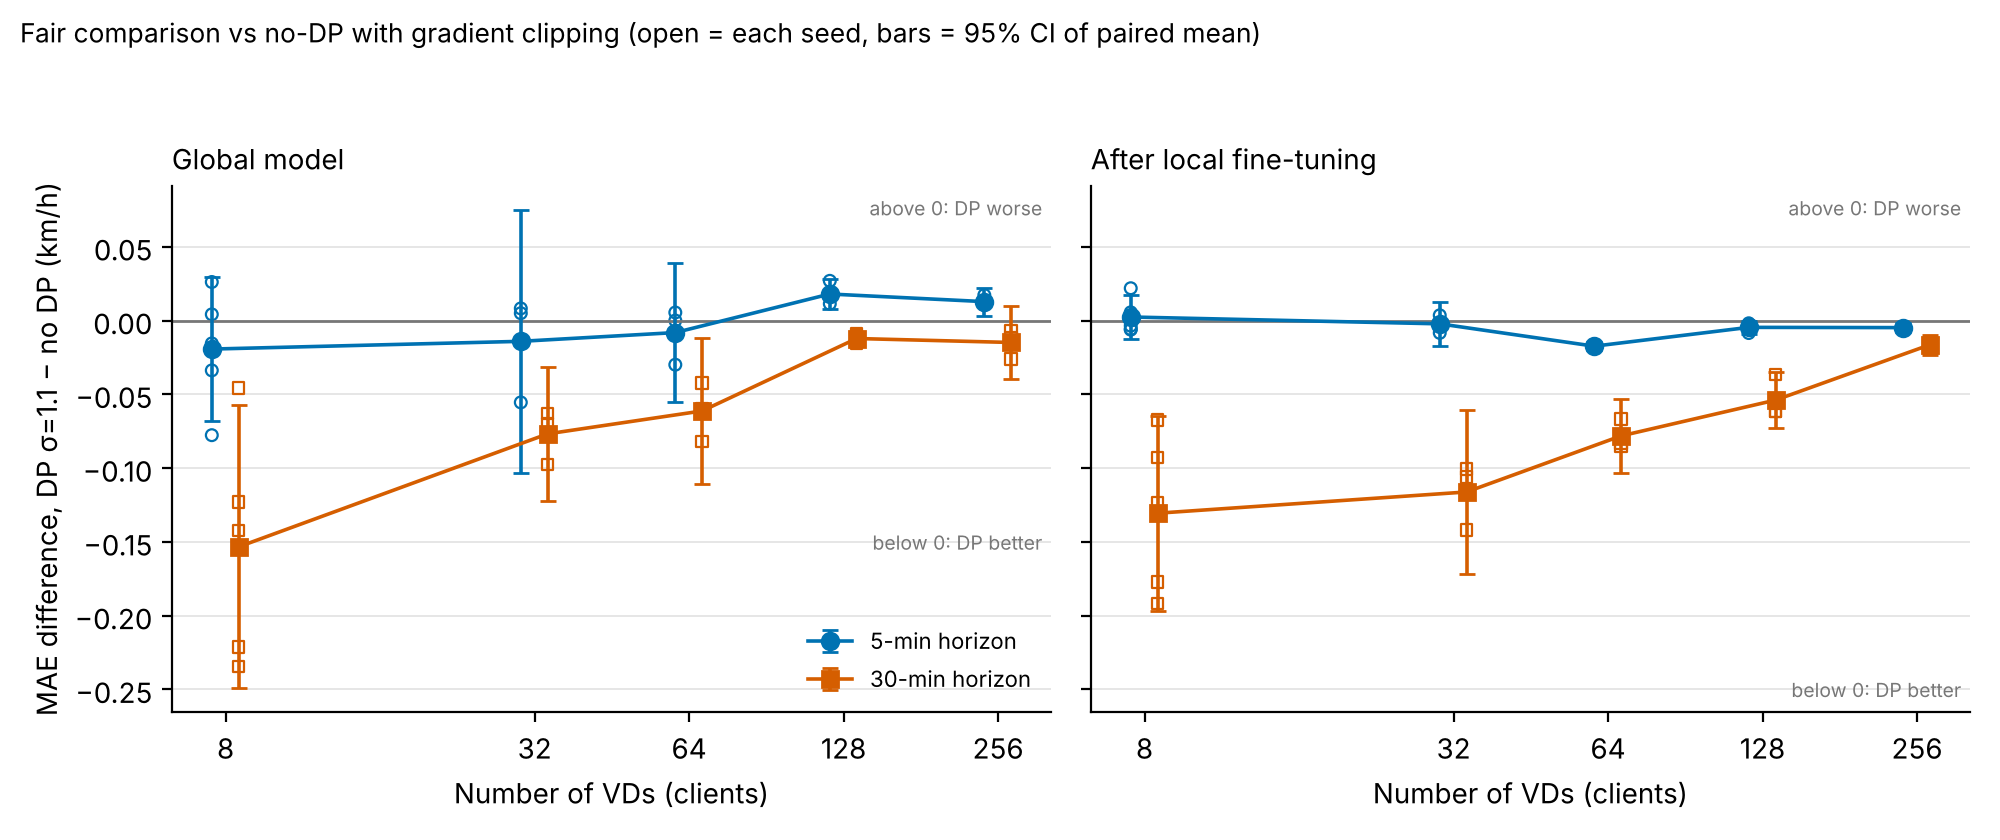
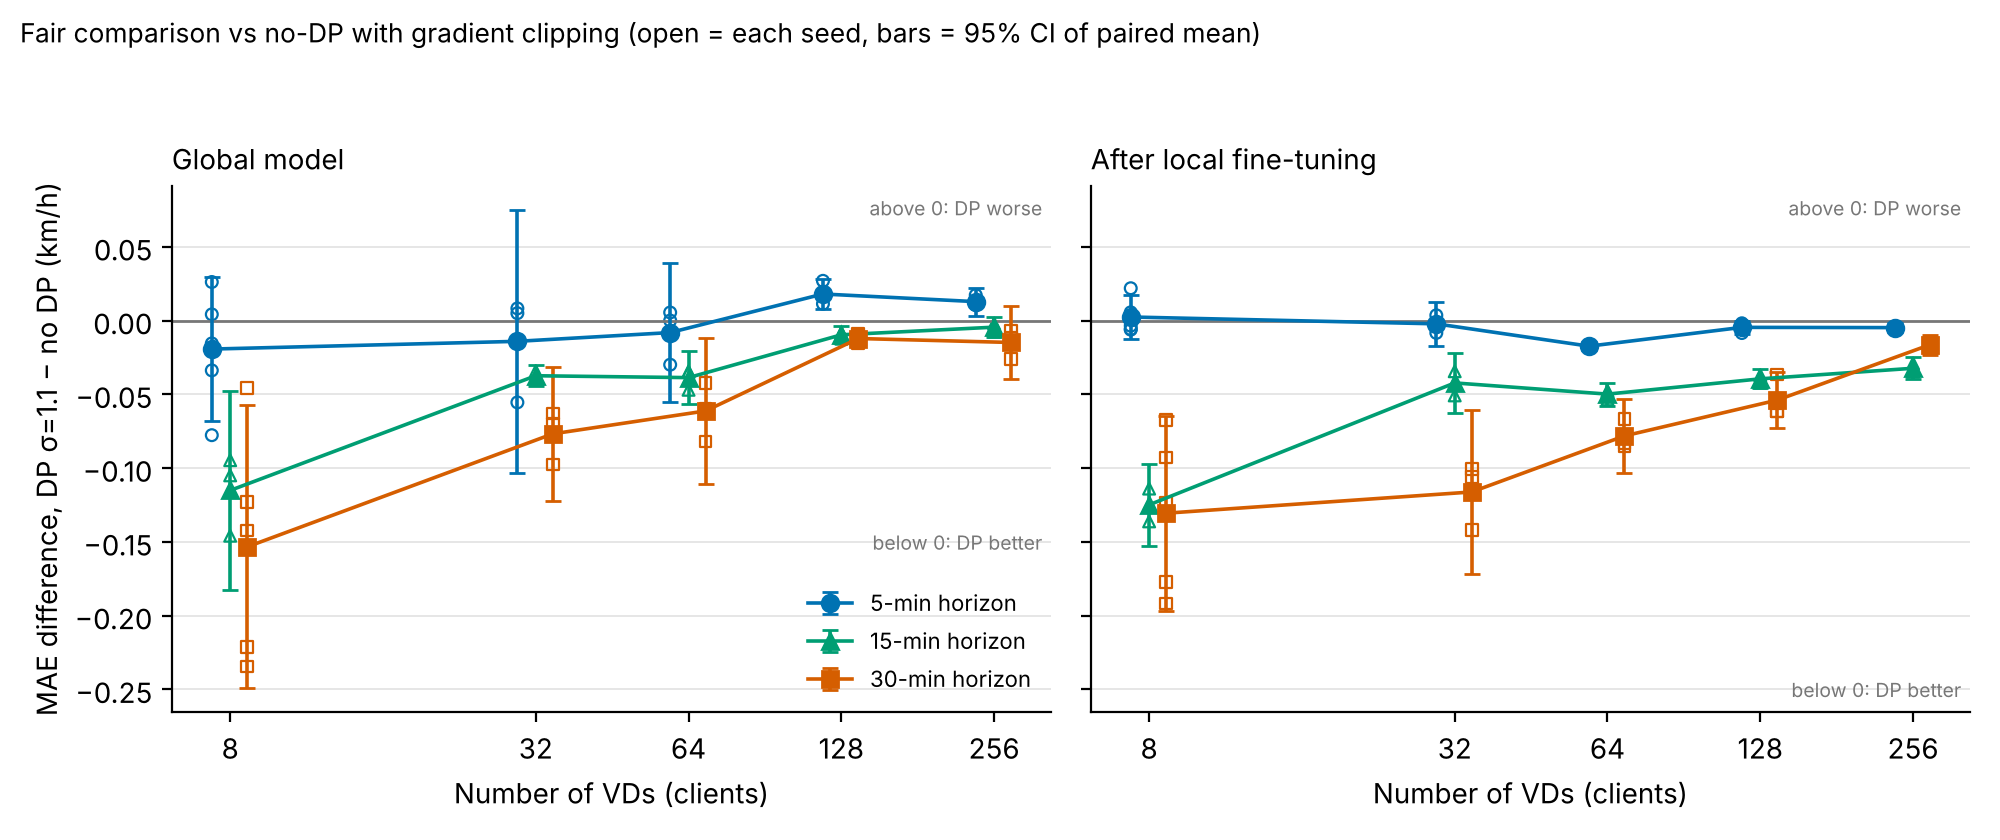
README/figure: 15-min fair comparison for all VD counts
Claude-Session: https://claude.ai/code/session_01EJ1mjjmKwMNR6cY38Rxgw7

diff --git a/scripts/plot_dp_vs_nodp.py b/scripts/plot_dp_vs_nodp.py
@@ -42,11 +42,19 @@ PAIRS = {
     (256, 5): [(1, ("d256_nodpclip", "nodp_seed1"), ("d256", "dp_sigma1.1")),
                (2, ("d256_nodpclip", "nodp_seed2"), ("d256s", "dp_sigma1.1_seed2")),
                (3, ("d256_s3more", "nodp"), ("d256s", "dp_sigma1.1_seed3"))],
+    (8, 15): _within("d8_h3_fair", (1, 2, 3)),
+    (32, 15): _within("d32_h3_fair", (1, 2, 3)),
+    (64, 15): _within("d64_h3_fair", (1, 2, 3)),
+    (128, 15): _within("d128_h3_fair", (1, 2, 3)),
+    (256, 15): [(1, ("d256_h3_nodpclip", "nodp"), ("d256_h3", "dp_sigma1.1")),
+                (2, ("d256_h3_s2", "nodp"), ("d256_h3_s2", "dp_sigma1.1")),
+                (3, ("d256_h3_s3", "nodp"), ("d256_h3_s3", "dp_sigma1.1"))],
     (256, 30): [(1, ("d256_h6_nodpclip", "nodp_seed1"), ("d256_h6", "dp_sigma1.1")),
                 (2, ("d256_h6_nodpclip", "nodp_seed2"), ("d256_h6s2", "dp_sigma1.1")),
                 (3, ("d256_h6_s3", "nodp"), ("d256_h6_s3", "dp_sigma1.1"))],
 }
-STYLE = {5: ("#0072B2", "o", "5-min horizon"), 30: ("#D55E00", "s", "30-min horizon")}  # Okabe-Ito
+STYLE = {5: ("#0072B2", "o", "5-min horizon"), 15: ("#009E73", "^", "15-min horizon"),
+         30: ("#D55E00", "s", "30-min horizon")}  # Okabe-Ito
 
 
 def _table(root: Path, batch: str) -> dict:
@@ -90,7 +98,7 @@ def plot(root: Path, out: Path) -> dict:
             keys = sorted(k for k in data if k[1] == h)
             if not keys:
                 continue
-            shift = 0.94 if h == 5 else 1.06  # 只為避免重疊（對數軸上的小位移）
+            shift = {5: 0.92, 15: 1.0, 30: 1.08}[h]  # 只為避免重疊（對數軸上的小位移）
             xs = [k[0] * shift for k in keys]
             cis = [_ci(data[k]) for k in keys]
             means = [c[0] for c in cis]

diff --git a/README.md b/README.md
@@ -420,7 +420,9 @@ record σ1.1 3.085（10.0%）／2.997（12.6%）（全域 −0.012，CI [−0.01
 30 分鐘（naive 5.471）5.247／4.996 vs 5.094／4.865（全域 −0.153，CI [−0.249, −0.057]；微調後 −0.131，CI [−0.197, −0.064]）。
 預測 15 分鐘（3 seed 配對）：32 個 VD（naive 3.036）無 DP＋梯度裁剪 2.789／2.714 vs record σ1.1 2.752／2.672
 （全域 −0.037，p=0.002；微調後 −0.042，p=0.01）；64 個 VD（naive 3.115）2.830／2.784 vs 2.791／2.734
-（全域 −0.039，p=0.01；微調後 −0.050，p=0.001）。
+（全域 −0.039，p=0.01；微調後 −0.050，p=0.001）；8 個 VD（naive 4.164）3.983／3.870 vs 3.868／3.745
+（全域 −0.115，微調後 −0.125）；128 個 VD（naive 2.919）2.600／2.582 vs 2.591／2.543（全域 −0.010，微調後 −0.040）；
+256 個 VD 全域 −0.004（不顯著）、微調後 −0.032。15 分鐘時所有 VD 數微調後 DP 都顯著較好。
 VD 越少，DP（逐樣本裁剪＋雜訊）相對無 DP 的優勢越大，長預測時特別明顯。
 
 ![DP vs no-DP by number of VDs](docs/figures/dp_vs_nodp_by_vd.png)
